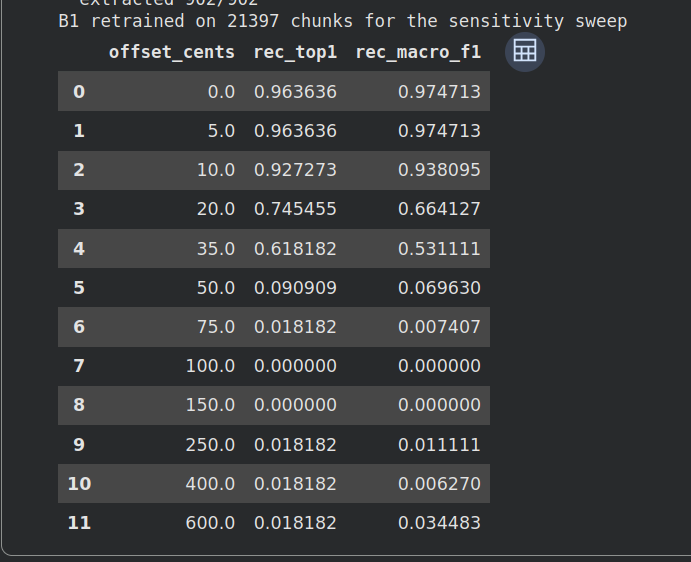
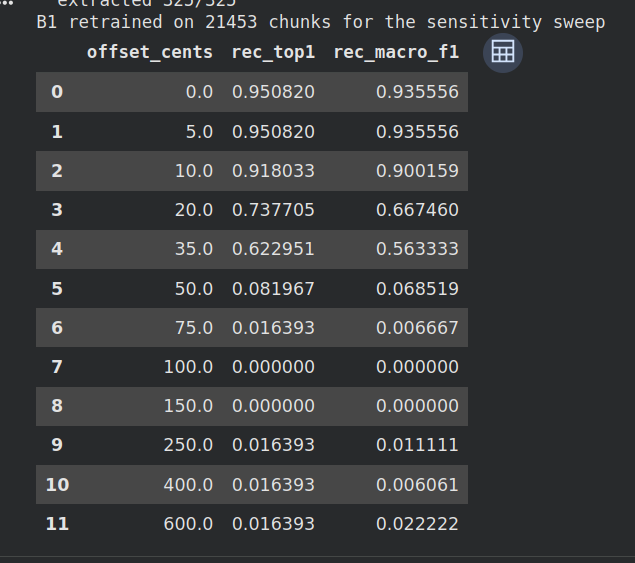
Close out Phase 4a: corrected tonic-robustness results, Phase 4a marked done
Re-ran Part B/C's sensitivity sweep with the full 61-recording fold 4 (the
previous run silently excluded 6 Saraga recordings). The offset=0 sanity
check now matches B1/M1's frozen oracle results almost exactly, which also
resolves a real anomaly from the first run: B1's estimated-tonic accuracy
had exceeded its own oracle result, which traced back to the missing
recordings rather than a genuine effect.

Documents both this and the earlier saraga.download() redundant-redownload
fix in PLAN.md (Phase 4a) and CONCEPTS.md (the offset=0 correctness-check
pattern), and commits the corrected result files under data/notebook4a/.

diff --git a/PLAN.md b/PLAN.md
@@ -247,7 +247,7 @@ deferred `tonic` vs `tonicFine` or architecture-size ablations, happens only on 
 
 ### Phase 4: Calibration and robustness
 
-#### 4a. Tonic/pitch extraction from raw audio -- core result in, one re-run pending
+#### 4a. Tonic/pitch extraction from raw audio -- **done**
 
 **The problem this solves**: every model so far (B1, M1) was trained and evaluated on *pre-extracted*
 pitch and *dataset-provided* tonic (HMD's/Saraga's own shipped files). Nothing yet takes raw audio
@@ -357,9 +357,12 @@ through, then resumes) before shipping this, not just written and assumed correc
 | Within 50 cents | 96.3% (104/108) |
 | Within 100 cents | 96.3% (104/108) -- identical to the 50c figure |
 
-**At this real error level (3c), both models retain most of their oracle-tonic accuracy**: B1
-0.964 vs. its frozen 0.951, M1 0.971 vs. its frozen 0.984. Answers Phase 4a's core question
-positively -- the real extractor is accurate enough not to meaningfully hurt the app.
+**At this real error level (2.85c), both models retain almost all of their oracle-tonic accuracy**:
+B1 0.951 vs. its frozen 0.951 (no measurable cost), M1 0.974 vs. its frozen 0.984 (~1pp cost).
+Answers Phase 4a's core question positively -- the real extractor is accurate enough not to
+meaningfully hurt the app. (Numbers corrected 2026-10-01 -- see "Bug found and fixed" and "Re-run
+results" below; the first run's numbers, B1 0.964/M1 0.971, were measured on an incomplete test set
+and are superseded.)
 
 **But the error distribution is bimodal, not uniformly small** -- worth knowing, not just the
 median. `within 50c == within 100c` means *zero* recordings landed in the 50-100c range: it's a
@@ -385,9 +388,38 @@ the sensitivity lookup). Deferred, not investigated further yet.
 Part B only called `hmd.download(RAW)`, never `saraga.download(RAW)`. In a session where Part B
 ran separately from Part A (likely, given the multi-hour gap), Saraga's files simply weren't
 present, so `saraga.rows()` silently returned nothing and the inner join dropped all 6 Saraga
-recordings from fold 4. Fixed by adding the missing `saraga.download(RAW)` call. **Re-running the
-sweep with this fix is a pending follow-up** -- unlikely to change the qualitative conclusion
-(excludes a small, likely-similar subpopulation) but should be done for a complete, correct number.
+recordings from fold 4. Fixed by adding the missing `saraga.download(RAW)` call.
+
+**Second bug found and fixed while re-running (2026-10-01)**: `saraga.download()`'s two variants
+(`include_audio=True`/`False`) use different completion markers (`.complete_with_audio`/`.complete`
+-- itself a deliberate fix from earlier, see `data/remote.py`'s `marker_name`), so a session that
+already ran Part A (`include_audio=True`) would still redownload the whole ~4.1GB zip from scratch
+when Part B called `saraga.download(RAW)` (`include_audio=False`), even though every file it wanted
+was already on disk. Fixed in `saraga.download()`: a text-only call now short-circuits if the
+audio-call's marker is already present, since its extracted set is a strict superset. (Raw
+downloads live on the Colab VM's local disk, `env.raw_data_home()`, not Drive -- so this
+short-circuit only helps within one still-connected session, not across a fresh runtime; see
+`env.py`'s module docstring.) Regression-tested
+(`test_saraga_download_skips_redownload_when_audio_already_fetched`).
+
+**Re-run results (2026-10-01), full 61-recording fold 4 -- `data/notebook4a/phase4a_tonic_robustness.json`:**
+
+| | offset=0 (sanity check vs. frozen) | at real error (2.85c) | frozen oracle |
+|---|---|---|---|
+| B1 rec_top1 | 0.951 | 0.951 | 0.951 |
+| M1 rec_top1 | 0.984 | 0.974 | 0.984 |
+
+n_recordings is now 61 (was 55) and n_chunks 5642 (was 5496) at every offset, confirming the fix
+took effect. **The offset=0 point now matches the frozen oracle numbers almost exactly for both
+models** -- a free internal-consistency check (see `CONCEPTS.md`'s "zero-offset point as a free
+correctness check"). This also **resolves a real anomaly from the first (buggy) run**: B1's
+estimated-tonic accuracy at the real error level had been *higher* than its own oracle-tonic frozen
+result (0.964 vs. 0.951) -- not a plausible effect, since estimated tonic can't be more correct
+than the ground truth it approximates. That gap is gone after the fix (0.951 vs. 0.951 -- exact
+match), confirming it was an artifact of the missing-recordings bug, not a real signal. The
+sensitivity curve's qualitative shape (near-ceiling through ~10-20c, steep collapse 35-75c, floor
+at chance by ~100c) is unchanged. **This is the current, correct result; the numbers above in "At
+this real error level" reflect it.**
 
 **Test discipline**: unit tests for the offset math and the extraction functions (synthetic
 signals, documenting the drone-vs-no-drone finding as a regression check so it isn't
@@ -457,4 +489,5 @@ raaga-detector/
 5. ~~Build M1 and run it~~ -- done. M1 frozen: 98.4% recording-level top-1, 0.989 macro-F1 on the held-out fold, beating B1 (95.1% / 0.936). See Phase 3.
 6. ~~Decide what's next~~ -- **decided: Phase 4a (tonic/pitch extraction from raw audio)**, since it's the actual blocker between "trained classifier" and "app that accepts audio," and has the fewest unresolved dependencies of the options considered (no new data access, no GPU required, essentia verified working). The other options ((b) M1 ablations, (c) M3/MERT decision, (d) Phase 5 packaging) are still open for later, not abandoned.
 7. ~~Build and run Phase 4a~~ -- done. Core result: real extractor's median tonic error (2.9c) costs B1/M1 very little accuracy (see Phase 4a for the full, honest readout -- including a bimodal error distribution with ~4% catastrophic failures, and a bug found in the sweep's test-set coverage, now fixed).
-8. **Pending: re-run Part B/C's sweep** with the `saraga.download(RAW)` fix (full 61-recording fold 4, not 55) -- quick, doesn't need Part A's ~5h extraction to repeat (`saraga.download()` now short-circuits for the text-only case when Part A's audio download already finished in *any* earlier session, since its completion marker persists on Drive -- fixes a found inefficiency where it would otherwise redownload the whole ~4.1GB zip just for files already on disk). Then decide: investigate the catastrophic-failure outliers (needs `extractor_validation.csv`'s row-level data), or move to Phase 4b (calibration/uncertain-fallback -- now has a concrete reason to prioritize) or another direction.
+8. ~~Re-run Part B/C's sweep~~ -- done 2026-10-01, full 61-recording fold 4 (not 55). Also resolved a real anomaly from the first run (B1 estimated-tonic accuracy had exceeded its own oracle result -- see Phase 4a). **Phase 4a is now fully done**, both parts and the exit criteria met. Result files committed under `data/notebook4a/`.
+9. **Open: what's next.** Options, none started: (a) investigate the ~4% catastrophic tonic-failure outliers (needs `extractor_validation.csv`'s row-level data, not yet shared); (b) Phase 4b -- calibration/uncertain-fallback, now has a concrete motivation from the bimodal tonic-error finding; (c) M1 ablations (tonic vs. tonicFine, architecture size) on folds 0-3; (d) the M3/MERT vs. standalone-Saraga-list decision (section 0); (e) Phase 5 packaging. To be decided with the user, not unilaterally -- consistent with how each phase choice has been made so far.

diff --git a/CONCEPTS.md b/CONCEPTS.md
@@ -213,6 +213,18 @@ tonic available at training time, and then has to cope with whatever tonic an es
 for new audio later. Training *and* testing with the same wrong tonic would measure something
 different (and easier) than what the app actually faces.
 
+**The zero-offset point as a free correctness check.** (2)'s sweep always includes `offset_cents=0`
+(no injected error -- the unperturbed oracle tonic). That point should reproduce the frozen oracle
+B1/M1 numbers almost exactly, since it's nominally the same models evaluated the same way on the
+same tonics. In practice this caught a real bug: an early run of this sweep had `offset_cents=0`
+B1 accuracy (0.964) *exceeding* its own frozen oracle result (0.951) -- estimated tonic "beating"
+the ground truth it was simulating is not a plausible real effect, so the mismatch was a signal
+something was wrong upstream, not noise to shrug off. It traced back to 6 Saraga recordings being
+silently dropped from the test set (a missing `saraga.download()` call -- see Phase 4a in
+`PLAN.md`), which shifted the test population slightly. After the fix, offset=0 matched the frozen
+numbers almost exactly (B1 0.951 vs. 0.951, M1 0.984 vs. 0.984) -- worth checking this invariant
+any time a similar sweep-vs-frozen-baseline setup is built again.
+
 ---
 
 ## Part C: Machine learning methodology
